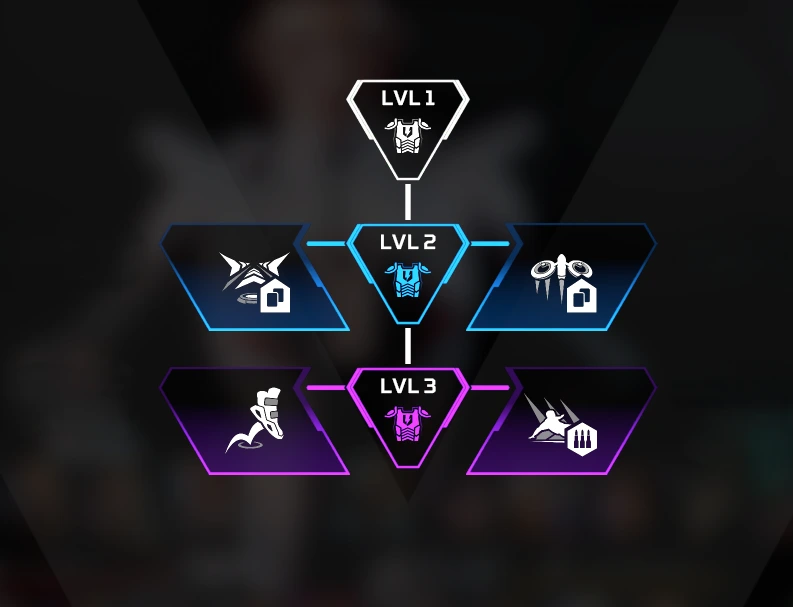
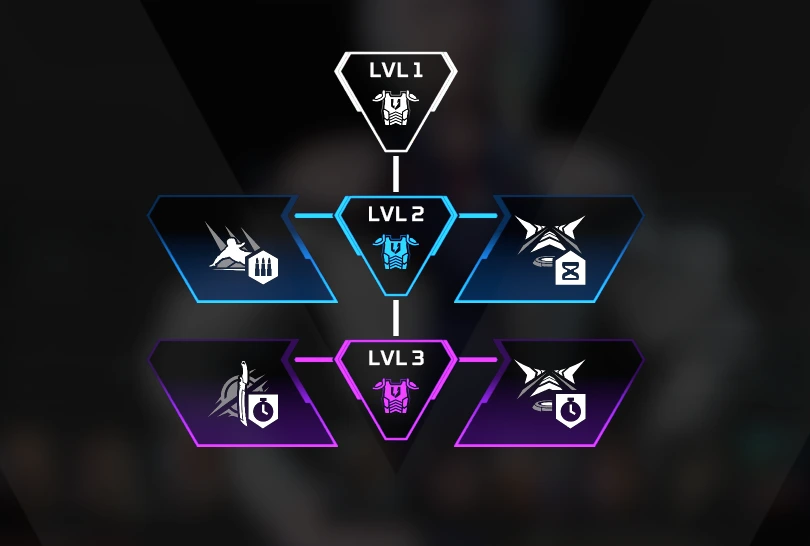
Updated to Apex Legends s30 Marked changes, new upgrades for Bloodhound, Axle and minor changes to Valk, Rampart and Loba.

Changed region(s): [[0.1816, 0.0, 0.9382, 0.8407], [0.3632, 0.9341, 0.454, 1.0]]

diff --git a/src/components/events/UpgradeLegends/Recon/reconData.js b/src/components/events/UpgradeLegends/Recon/reconData.js
@@ -1,34 +1,34 @@
 export const BLOODHOUND_DATA = {
     name: 'BLOODHOUND',
-    characterImage: 'https://media.contentapi.ea.com/content/dam/apex-legends/common/breakout-patch-notes/legend-assets/recon/bloodhound.jpg',
+    characterImage: '/assets/BloodhoundP.webp',
     upgradeImage: '/assets/Bloodhound.webp',
     upgrades: [
         {
             id: 1,
             zone: 'Zone1',
-            title: 'TASTE OF BLOOD',
-            description: 'Regen 50 health when getting a knock while your ultimate is active.',
+            title: 'HIDDEN SIGHT',
+            description: 'Using the Ult refreshes your Tactical, and using your Tactical while cloaked hides the visuals effect from enemies.',
             tooltipPosition: { top: -10, left: -460 }
         },
         {
             id: 2,
             zone: 'Zone2',
-            title: 'RAVEN\'S FLIGHT',
-            description: 'When activating your white ravens, they can ping enemies twice as far as normal.',
+            title: 'BIRD\'S EYE',
+            description: 'White ravens mark an extra enemy from another squad.',
             tooltipPosition: { top: -10, left: 100 }
         },
         {
             id: 3,
             zone: 'Zone3',
-            title: 'HUNTER\'S AGILITY',
-            description: 'Your tactical is faster to use and has -5s cooldown.',
+            title: 'TRUE PREDATOR',
+            description: 'Recloack after firing while cloaked.',
             tooltipPosition: { top: 100, left: -460 }
         },
         {
             id: 4,
             zone: 'Zone4',
-            title: 'ODIN\'S GLARE',
-            description: 'Double the duration of Tactical\'s full-body highlight.',
+            title: 'HUNTER\'S AGILITY',
+            description: 'Your tactical is faster to use and has -5s cooldown.',
             tooltipPosition: { top: 100, left: 100 }
         }
     ]
@@ -36,7 +36,7 @@ export const BLOODHOUND_DATA = {
 
 export const CRYPTO_DATA = {
     name: 'CRYPTO',
-    characterImage: 'https://media.contentapi.ea.com/content/dam/apex-legends/common/breakout-patch-notes/legend-assets/recon/crypto.jpg',
+    characterImage: '/assets/CryptoP.webp',
     upgradeImage: '/assets/Crypto.webp',
     upgrades: [
         {
@@ -72,7 +72,7 @@ export const CRYPTO_DATA = {
 
 export const SEER_DATA = {
     name: 'SEER',
-    characterImage: 'https://media.contentapi.ea.com/content/dam/apex-legends/common/breakout-patch-notes/legend-assets/recon/seer.jpg',
+    characterImage: '/assets/SeerP.webp',
     upgradeImage: '/assets/Seer.webp',
     upgrades: [
         {
@@ -108,7 +108,7 @@ export const SEER_DATA = {
 
 export const VALKYRIE_DATA = {
     name: 'VALKYRIE',
-    characterImage: 'https://media.contentapi.ea.com/content/dam/apex-legends/common/breakout-patch-notes/legend-assets/skirmisher/valkyrie.jpg',
+    characterImage: '/assets/ValkP.webp',
     upgradeImage: '/assets/Valk.webp',
     upgrades: [
         {
@@ -144,7 +144,7 @@ export const VALKYRIE_DATA = {
 
 export const VANTAGE_DATA = {
     name: 'VANTAGE',
-    characterImage: 'https://media.contentapi.ea.com/content/dam/apex-legends/common/breakout-patch-notes/legend-assets/recon/vantage.jpg',
+    characterImage: '/assets/VantageP.webp',
     upgradeImage: '/assets/Vantage.webp',
     upgrades: [
         {
@@ -180,7 +180,7 @@ export const VANTAGE_DATA = {
 
 export const SPARROW_DATA = {
     name: 'SPARROW',
-    characterImage: 'https://i0.wp.com/ultimasnoticias.com.ve/wp-content/uploads/2025/04/Apex-Legends-revela-a-Sparrow-la-nueva-leyenda-que-llega-en-la-Temporada-25-ProGamers.life_.png',
+    characterImage: '/assets/SparrowP.webp',
     upgradeImage: '/assets/Sparrow.webp',
     upgrades: [
         {

diff --git a/src/components/events/UpgradeLegends/Skirmisher/skirmData.js b/src/components/events/UpgradeLegends/Skirmisher/skirmData.js
@@ -36,7 +36,7 @@ export const ALTER_DATA = {
 
 export const ASH_DATA = {
     name: 'ASH',
-    characterImage: 'https://media.contentapi.ea.com/content/dam/apex-legends/common/breakout-patch-notes/legend-assets/assault/ash.jpg',
+    characterImage: '/assets/AshP.webp',
     upgradeImage: '/assets/Ash.webp',
     upgrades: [
         {
@@ -72,7 +72,7 @@ export const ASH_DATA = {
 
 export const HORIZON_DATA = {
     name: 'HORIZON',
-    characterImage: 'https://media.contentapi.ea.com/content/dam/apex-legends/common/breakout-patch-notes/legend-assets/skirmisher/horizon.jpg',
+    characterImage: '/assets/HorizonP.webp',
     upgradeImage: '/assets/Horizon.webp',
     upgrades: [
         {
@@ -108,7 +108,7 @@ export const HORIZON_DATA = {
 
 export const OCTANE_DATA = {
     name: 'OCTANE',
-    characterImage: 'https://media.contentapi.ea.com/content/dam/apex-legends/common/breakout-patch-notes/legend-assets/skirmisher/octane.jpg',
+    characterImage: '/assets/OctaneP.webp',
     upgradeImage: '/assets/Octane.webp',
     upgrades: [
         {
@@ -144,7 +144,7 @@ export const OCTANE_DATA = {
 
 export const PATHFINDER_DATA = {
     name: 'PATHFINDER',
-    characterImage: 'https://media.contentapi.ea.com/content/dam/apex-legends/common/breakout-patch-notes/legend-assets/skirmisher/pathfinder.jpg',
+    characterImage: '/assets/PathP.webp',
     upgradeImage: '/assets/Path.webp',
     upgrades: [
         {
@@ -180,7 +180,7 @@ export const PATHFINDER_DATA = {
 
 export const WRAITH_DATA = {
     name: 'WRAITH',
-    characterImage: 'https://media.contentapi.ea.com/content/dam/apex-legends/common/breakout-patch-notes/legend-assets/skirmisher/wraith.jpg',
+    characterImage: '/assets/WraithP.webp',
     upgradeImage: '/assets/Wraith.webp',
     upgrades: [
         {
@@ -216,35 +216,35 @@ export const WRAITH_DATA = {
 
 export const AXLE_DATA = {
     name: 'AXLE',
-    characterImage: 'https://i.redd.it/0lnc1ommnzxg1.png',
+    characterImage: '/assets/AxleP.webp',
     upgradeImage: '/assets/Axle.webp',
     upgrades: [
         {
             id: 1,
             zone: 'Zone1',
-            title: 'SUPER SLIDER',
-            description: '-5% Tactical Cooldown, +1 max active tac.',
+            title: 'SLIDING SHOOTER',
+            description: 'Bullets shot while sliding come straight from inventory instead of magazine.',
             tooltipPosition: { top: -10, left: -460 }
         },
         {
             id: 2,
             zone: 'Zone2',
-            title: 'AUTOMATA',
-            description: 'Gain a second Ultimate charge.',
+            title: 'LONG HAUL',
+            description: 'Upgrades the Nitro Gate to give a +2s max boosted slide.',
             tooltipPosition: { top: -10, left: 100 }
         },
         {
             id: 3,
             zone: 'Zone3',
-            title: 'JUMP GATE',
-            description: 'Upgrades the Nitro Gate to give a double-jump.',
+            title: 'ULTIMATE COOLDOWN',
+            description: 'Reduce Ultimate cooldown by 30s.',
             tooltipPosition: { top: 100, left: -460 }
         },
         {
             id: 4,
             zone: 'Zone4',
-            title: 'SLIDING SHOOTER',
-            description: 'Bullets shot while sliding come straight from inventory instead of magazine.',
+            title: 'SUPER SLIDER',
+            description: '-5% Tactical Cooldown, +1 max active tac.',
             tooltipPosition: { top: 100, left: 100 }
         }
     ]

diff --git a/src/components/events/UpgradeLegends/Support/suppData.js b/src/components/events/UpgradeLegends/Support/suppData.js
@@ -1,6 +1,6 @@
 export const CONDUIT_DATA = {
     name: 'CONDUIT',
-    characterImage: 'https://media.contentapi.ea.com/content/dam/apex-legends/common/breakout-patch-notes/legend-assets/support/conduit.jpg',
+    characterImage: '/assets/ConduitP.webp',
     upgradeImage: '/assets/Conduit.webp',
     upgrades: [
         {
@@ -36,7 +36,7 @@ export const CONDUIT_DATA = {
 
 export const GIBRALTAR_DATA = {
     name: 'GIBRALTAR',
-    characterImage: 'https://media.contentapi.ea.com/content/dam/apex-legends/common/breakout-patch-notes/legend-assets/support/gibby.jpg',
+    characterImage: '/assets/GibbyP.webp',
     upgradeImage: '/assets/Gibby.webp',
     upgrades: [
         {
@@ -72,7 +72,7 @@ export const GIBRALTAR_DATA = {
 
 export const LIFELINE_DATA = {
     name: 'LIFELINE',
-    characterImage: 'https://media.contentapi.ea.com/content/dam/apex-legends/common/breakout-patch-notes/legend-assets/support/lifeline.jpg',
+    characterImage: '/assets/LifelineP.webp',
     upgradeImage: '/assets/Lifeline.webp',
     upgrades: [
         {
@@ -108,7 +108,7 @@ export const LIFELINE_DATA = {
 
 export const LOBA_DATA = {
     name: 'LOBA',
-    characterImage: 'https://media.contentapi.ea.com/content/dam/apex-legends/common/breakout-patch-notes/legend-assets/support/loba.jpg',
+    characterImage: '/assets/LobaP.webp',
     upgradeImage: '/assets/Loba.webp',
     upgrades: [
         {
@@ -136,7 +136,7 @@ export const LOBA_DATA = {
             id: 4,
             zone: 'Zone4',
             title: 'BRAND NEW BAG',
-            description: 'Squad gains gold backpacks.',
+            description: 'Squad gains purple backpacks.',
             tooltipPosition: { top: 100, left: 100 }
         }
     ]
@@ -144,7 +144,7 @@ export const LOBA_DATA = {
 
 export const MIRAGE_DATA = {
     name: 'MIRAGE',
-    characterImage: 'https://media.contentapi.ea.com/content/dam/apex-legends/common/breakout-patch-notes/legend-assets/support/mirage.jpg',
+    characterImage: '/assets/MirageP.webp',
     upgradeImage: '/assets/Mirage.webp',
     upgrades: [
         {
@@ -180,7 +180,7 @@ export const MIRAGE_DATA = {
 
 export const NEWCASTLE_DATA = {
     name: 'NEWCASTLE',
-    characterImage: 'https://media.contentapi.ea.com/content/dam/apex-legends/common/breakout-patch-notes/legend-assets/support/newcastle.jpg',
+    characterImage: '/assets/NewcastleP.webp',
     upgradeImage: '/assets/Newcastle.webp',
     upgrades: [
         {

diff --git a/src/components/events/UpgradeLegends/Controller/controllerData.js b/src/components/events/UpgradeLegends/Controller/controllerData.js
@@ -1,6 +1,6 @@
 export const CATALYST_DATA = {
     name: 'CATALYST',
-    characterImage: 'https://media.contentapi.ea.com/content/dam/apex-legends/common/breakout-patch-notes/legend-assets/controller/catalyst.jpg',
+    characterImage: '/assets/CatalystP.webp',
     upgradeImage: '/assets/Catalyst.webp',
     upgrades: [
         {
@@ -36,7 +36,7 @@ export const CATALYST_DATA = {
 
 export const CAUSTIC_DATA = {
     name: ' CAUSTIC',
-    characterImage: 'https://media.contentapi.ea.com/content/dam/apex-legends/common/breakout-patch-notes/legend-assets/controller/caustic.jpg',
+    characterImage: '/assets/CausticP.webp',
     upgradeImage: '/assets/Caustic.webp',
     upgrades: [
         {
@@ -72,14 +72,14 @@ export const CAUSTIC_DATA = {
 
 export const RAMPART_DATA = {
     name: 'RAMPART',
-    characterImage: 'https://media.contentapi.ea.com/content/dam/apex-legends/common/breakout-patch-notes/legend-assets/controller/rampart.jpg',
+    characterImage: '/assets/RampartP.webp',
     upgradeImage: '/assets/Rampart.webp',
     upgrades: [
         {
             id: 1,
             zone: 'Zone1',
             title: 'COMBAT RESERVE',
-            description: 'Gain access to Red bins, extra ammo per stack and extra grenade slots.',
+            description: 'Gain extra ammo per stack, extra grenade slots and stowed reload.',
             tooltipPosition: { top: -10, left: -460 }
         },
         {
@@ -108,7 +108,7 @@ export const RAMPART_DATA = {
 
 export const WATTSON_DATA = {
     name: 'WATTSON',
-    characterImage: 'https://media.contentapi.ea.com/content/dam/apex-legends/common/breakout-patch-notes/legend-assets/controller/wattson.jpg',
+    characterImage: '/assets/WattsonP.webp',
     upgradeImage: '/assets/Wattson.webp',
     upgrades: [
         {

diff --git a/src/components/events/UpgradeLegends/Assault/assaultData.js b/src/components/events/UpgradeLegends/Assault/assaultData.js
@@ -2,7 +2,7 @@
 
 export const BALLISTIC_DATA = {
     name: 'BALLISTIC',
-    characterImage: 'https://media.contentapi.ea.com/content/dam/apex-legends/common/breakout-patch-notes/legend-assets/assault/ballistic.jpg',
+    characterImage: '/assets/BallisticP.webp',
     upgradeImage: '/assets/Ballistic.webp',
     upgrades: [
         {
@@ -38,7 +38,7 @@ export const BALLISTIC_DATA = {
 
 export const BANGALORE_DATA = {
     name: 'BANGALORE',
-    characterImage: 'https://media.contentapi.ea.com/content/dam/apex-legends/common/breakout-patch-notes/legend-assets/assault/bangalore.jpg',
+    characterImage: '/assets/BangaloreP.webp',
     upgradeImage: '/assets/Bangalore.webp',
     upgrades: [
         {
@@ -74,7 +74,7 @@ export const BANGALORE_DATA = {
 
 export const MAGGIE_DATA = {
     name: 'MAD MAGGIE',
-    characterImage: 'https://media.contentapi.ea.com/content/dam/apex-legends/common/breakout-patch-notes/legend-assets/assault/mad-maggie.jpg',
+    characterImage: '/assets/MaggieP.webp',
     upgradeImage: '/assets/Maggie.webp',
     upgrades: [
         {
@@ -110,7 +110,7 @@ export const MAGGIE_DATA = {
 
 export const REVENANT_DATA = {
     name: 'REVENANT',
-    characterImage: 'https://media.contentapi.ea.com/content/dam/apex-legends/common/breakout-patch-notes/legend-assets/skirmisher/revenant.jpg',
+    characterImage: '/assets/RevP.webp',
     upgradeImage: '/assets/Rev.webp',
     upgrades: [
         {
@@ -146,7 +146,7 @@ export const REVENANT_DATA = {
 
 export const FUSE_DATA = {
     name: 'FUSE',
-    characterImage: 'https://media.contentapi.ea.com/content/dam/apex-legends/common/breakout-patch-notes/legend-assets/assault/fuse.jpg',
+    characterImage: '/assets/FuseP.webp',
     upgradeImage: '/assets/Fuse.webp',
     upgrades: [
         {

diff --git a/README.md b/README.md
@@ -36,11 +36,11 @@ This will initialize the server and you can access the app in your browser with 
 
 **LEGENDS UPGRADES** 
 
-*Updated S29 Overclocked*
+*Updated S30 Marked*
 
-![image](https://github.com/user-attachments/assets/b49e7c9d-4031-4b4d-aa50-815d457b1bcb)
+![image](https://github.com/user-attachments/assets/bee88c3f-afba-4182-bacf-48a71b574ed3=)
 
-![image](https://github.com/user-attachments/assets/10124e70-4b9c-4be0-9cc4-7bd4cf2fe8f6)
+![image](https://github.com/user-attachments/assets/fb0a6cee-034a-4adc-a595-41048db80fad)
 
 Data from `ea.com/games/apex-legends`
 <br><br><br>
